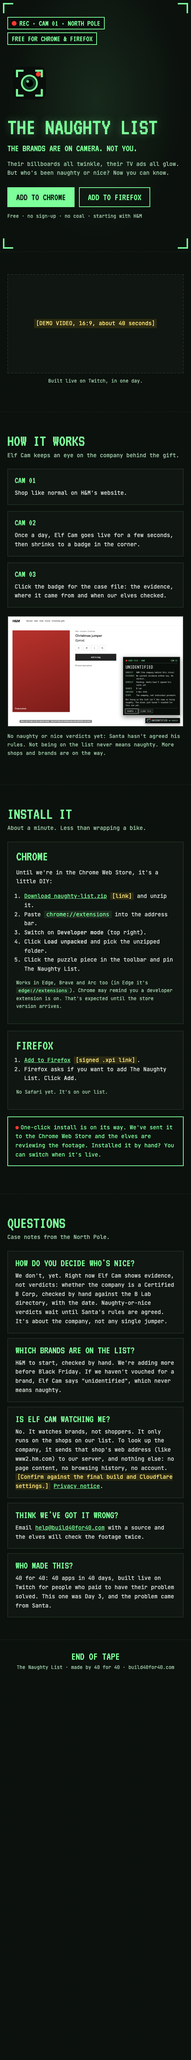
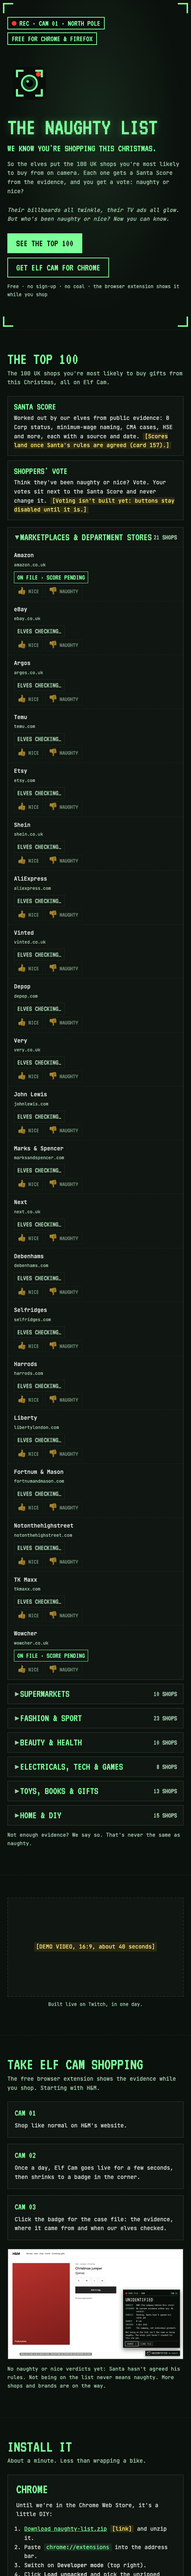
Download page: Santa's Top 100 story with Santa Score and shoppers' vote placeholders
Hero now opens on the Top 100 UK retailers (card 159). Scores show as pending
until card 157 agrees a method; vote buttons are disabled until voting is built.

diff --git a/publishing/launch/site/download.html b/publishing/launch/site/download.html
@@ -3,7 +3,7 @@
 <head>
 <meta charset="utf-8">
 <meta name="viewport" content="width=device-width, initial-scale=1">
-<title>The Naughty List: brands on Elf Cam</title>
+<title>The Naughty List: Santa's Top 100</title>
 <!-- DRAFT download page for build40for40.com/naughty-list. Standalone so it can be reviewed without touching the site repo.
      Elf Cam look (Lawrence, card 158 / PR #6): North Pole CCTV parody, black + phosphor green + REC red, VT323.
      Port into site/src/pages/naughty-list.astro once approved. Highlighted [brackets] = facts the build must confirm. -->
@@ -64,6 +64,25 @@ dt{font:28px/1 "VT323",monospace;text-transform:uppercase;color:var(--ph);margin
 dd{margin:0;max-width:70ch}
 footer{border-top:1px dashed var(--line);padding:30px 0 48px;text-align:center;color:var(--soft);font-size:13px}
 footer b{display:block;font:30px "VT323",monospace;text-transform:uppercase;color:var(--ph);font-weight:400;margin-bottom:4px}
+.legend{display:grid;grid-template-columns:1fr 1fr;gap:12px;margin-bottom:18px}
+.legend>div{background:var(--panel);border:2px solid var(--line);padding:14px 16px;display:grid;gap:6px}
+.legend b{font:26px/1 "VT323",monospace;text-transform:uppercase;color:var(--ph);font-weight:400}
+.cat{border:2px solid var(--line);margin-top:10px;background:var(--panel)}
+.cat summary{cursor:pointer;list-style:none;display:flex;justify-content:space-between;align-items:center;padding:12px 16px;font:28px/1 "VT323",monospace;text-transform:uppercase;color:var(--ph)}
+.cat summary::-webkit-details-marker{display:none}
+.cat summary::before{content:"▸ ";color:var(--soft)}.cat[open] summary::before{content:"▾ "}
+.cat summary span:first-child{flex:1}
+.cat .n{font-size:20px;color:var(--soft)}
+.rows{border-top:1px dashed var(--line)}
+.r{display:grid;grid-template-columns:1.3fr 1fr auto;gap:12px;align-items:center;padding:10px 16px;border-bottom:1px dashed var(--line)}
+.r:last-child{border-bottom:0}
+.who b{display:block;color:var(--neutral);font-weight:600}
+.who small{color:var(--soft);font-size:12px}
+.score{font:20px/1 "VT323",monospace;color:var(--soft);border:1px solid var(--line);padding:5px 8px;justify-self:start}
+.score.on{color:var(--ph);border-color:var(--ph)}
+.vote{display:flex;gap:6px}
+.vote button{font:18px/1 "VT323",monospace;text-transform:uppercase;background:transparent;color:var(--soft);border:1px solid var(--line);padding:6px 10px;cursor:not-allowed;opacity:.6}
+@media (max-width:720px){.legend{grid-template-columns:1fr}.r{grid-template-columns:1fr;gap:6px}}
 @media (max-width:720px){.grid,.install,.steps{grid-template-columns:1fr}.hero img{width:120px;height:120px;order:-1}.vf{inset:8px}.vf i{width:28px;height:28px;border-width:4px}}
 </style>
 </head>
@@ -76,13 +95,14 @@ footer b{display:block;font:30px "VT323",monospace;text-transform:uppercase;colo
     <div class="grid">
       <div>
         <h1>The Naughty List</h1>
-        <p class="tag">The brands are on camera. Not you.</p>
-        <p class="poem">Their billboards all twinkle, their TV ads all glow.<br>But who's been naughty or nice? Now you can know.</p>
+        <p class="tag">We know you're shopping this Christmas.</p>
+        <p class="poem">So the elves put the 100 UK shops you're most likely to buy from on camera. Each one gets a Santa Score from the evidence, and you get a vote: naughty or nice?</p>
+        <p class="poem" style="font-style:italic">Their billboards all twinkle, their TV ads all glow.<br>But who's been naughty or nice? Now you can know.</p>
         <div class="ctas">
-          <a class="btn" href="#install">Add to Chrome</a>
-          <a class="btn ghost" href="#install">Add to Firefox</a>
+          <a class="btn" href="#list">See the Top 100</a>
+          <a class="btn ghost" href="#install">Get Elf Cam for Chrome</a>
         </div>
-        <p class="small">Free · no sign-up · no coal · starting with H&amp;M</p>
+        <p class="small">Free · no sign-up · no coal · the browser extension shows it while you shop</p>
       </div>
       <img src="../src/icon-elfcam.svg" alt="">
     </div>
@@ -90,14 +110,25 @@ footer b{display:block;font:30px "VT323",monospace;text-transform:uppercase;colo
 </header>
 
 <main>
+<section class="w" id="list">
+  <h2>The Top 100</h2>
+  <p class="kicker">The 100 UK shops you're most likely to buy gifts from this Christmas, all on Elf Cam.</p>
+  <div class="legend">
+    <div><b>Santa Score</b><span>Worked out by our elves from public evidence: B Corp status, minimum-wage naming, CMA cases, HSE and more, each with a source and date. <span class="hole">[Scores land once Santa's rules are agreed (card 157).]</span></span></div>
+    <div><b>Shoppers' vote</b><span>Think they've been naughty or nice? Vote. Your votes sit next to the Santa Score and never change it. <span class="hole">[Voting isn't built yet: buttons stay disabled until it is.]</span></span></div>
+  </div>
+  <details class="cat" open><summary><span>Marketplaces &amp; department stores</span><span class="n">21 shops</span></summary><div class="rows"><div class="r"><div class="who"><b>Amazon</b><small>amazon.co.uk</small></div><div class="score on">ON FILE · SCORE PENDING</div><div class="vote" aria-label="Voting opens soon"><button disabled>👍 Nice</button><button disabled>👎 Naughty</button></div></div><div class="r"><div class="who"><b>eBay</b><small>ebay.co.uk</small></div><div class="score">ELVES CHECKING…</div><div class="vote" aria-label="Voting opens soon"><button disabled>👍 Nice</button><button disabled>👎 Naughty</button></div></div><div class="r"><div class="who"><b>Argos</b><small>argos.co.uk</small></div><div class="score">ELVES CHECKING…</div><div class="vote" aria-label="Voting opens soon"><button disabled>👍 Nice</button><button disabled>👎 Naughty</button></div></div><div class="r"><div class="who"><b>Temu</b><small>temu.com</small></div><div class="score">ELVES CHECKING…</div><div class="vote" aria-label="Voting opens soon"><button disabled>👍 Nice</button><button disabled>👎 Naughty</button></div></div><div class="r"><div class="who"><b>Etsy</b><small>etsy.com</small></div><div class="score">ELVES CHECKING…</div><div class="vote" aria-label="Voting opens soon"><button disabled>👍 Nice</button><button disabled>👎 Naughty</button></div></div><div class="r"><div class="who"><b>Shein</b><small>shein.co.uk</small></div><div class="score">ELVES CHECKING…</div><div class="vote" aria-label="Voting opens soon"><button disabled>👍 Nice</button><button disabled>👎 Naughty</button></div></div><div class="r"><div class="who"><b>AliExpress</b><small>aliexpress.com</small></div><div class="score">ELVES CHECKING…</div><div class="vote" aria-label="Voting opens soon"><button disabled>👍 Nice</button><button disabled>👎 Naughty</button></div></div><div class="r"><div class="who"><b>Vinted</b><small>vinted.co.uk</small></div><div class="score">ELVES CHECKING…</div><div class="vote" aria-label="Voting opens soon"><button disabled>👍 Nice</button><button disabled>👎 Naughty</button></div></div><div class="r"><div class="who"><b>Depop</b><small>depop.com</small></div><div class="score">ELVES CHECKING…</div><div class="vote" aria-label="Voting opens soon"><button disabled>👍 Nice</button><button disabled>👎 Naughty</button></div></div><div class="r"><div class="who"><b>Very</b><small>very.co.uk</small></div><div class="score">ELVES CHECKING…</div><div class="vote" aria-label="Voting opens soon"><button disabled>👍 Nice</button><button disabled>👎 Naughty</button></div></div><div class="r"><div class="who"><b>John Lewis</b><small>johnlewis.com</small></div><div class="score">ELVES CHECKING…</div><div class="vote" aria-label="Voting opens soon"><button disabled>👍 Nice</button><button disabled>👎 Naughty</button></div></div><div class="r"><div class="who"><b>Marks &amp; Spencer</b><small>marksandspencer.com</small></div><div class="score">ELVES CHECKING…</div><div class="vote" aria-label="Voting opens soon"><button disabled>👍 Nice</button><button disabled>👎 Naughty</button></div></div><div class="r"><div class="who"><b>Next</b><small>next.co.uk</small></div><div class="score">ELVES CHECKING…</div><div class="vote" aria-label="Voting opens soon"><button disabled>👍 Nice</button><button disabled>👎 Naughty</button></div></div><div class="r"><div class="who"><b>Debenhams</b><small>debenhams.com</small></div><div class="score">ELVES CHECKING…</div><div class="vote" aria-label="Voting opens soon"><button disabled>👍 Nice</button><button disabled>👎 Naughty</button></div></div><div class="r"><div class="who"><b>Selfridges</b><small>selfridges.com</small></div><div class="score">ELVES CHECKING…</div><div class="vote" aria-label="Voting opens soon"><button disabled>👍 Nice</button><button disabled>👎 Naughty</button></div></div><div class="r"><div class="who"><b>Harrods</b><small>harrods.com</small></div><div class="score">ELVES CHECKING…</div><div class="vote" aria-label="Voting opens soon"><button disabled>👍 Nice</button><button disabled>👎 Naughty</button></div></div><div class="r"><div class="who"><b>Liberty</b><small>libertylondon.com</small></div><div class="score">ELVES CHECKING…</div><div class="vote" aria-label="Voting opens soon"><button disabled>👍 Nice</button><button disabled>👎 Naughty</button></div></div><div class="r"><div class="who"><b>Fortnum &amp; Mason</b><small>fortnumandmason.com</small></div><div class="score">ELVES CHECKING…</div><div class="vote" aria-label="Voting opens soon"><button disabled>👍 Nice</button><button disabled>👎 Naughty</button></div></div><div class="r"><div class="who"><b>Notonthehighstreet</b><small>notonthehighstreet.com</small></div><div class="score">ELVES CHECKING…</div><div class="vote" aria-label="Voting opens soon"><button disabled>👍 Nice</button><button disabled>👎 Naughty</button></div></div><div class="r"><div class="who"><b>TK Maxx</b><small>tkmaxx.com</small></div><div class="score">ELVES CHECKING…</div><div class="vote" aria-label="Voting opens soon"><button disabled>👍 Nice</button><button disabled>👎 Naughty</button></div></div><div class="r"><div class="who"><b>Wowcher</b><small>wowcher.co.uk</small></div><div class="score on">ON FILE · SCORE PENDING</div><div class="vote" aria-label="Voting opens soon"><button disabled>👍 Nice</button><button disabled>👎 Naughty</button></div></div></div></details><details class="cat"><summary><span>Supermarkets</span><span class="n">10 shops</span></summary><div class="rows"><div class="r"><div class="who"><b>Tesco</b><small>tesco.com</small></div><div class="score">ELVES CHECKING…</div><div class="vote" aria-label="Voting opens soon"><button disabled>👍 Nice</button><button disabled>👎 Naughty</button></div></div><div class="r"><div class="who"><b>Sainsbury&#x27;s</b><small>sainsburys.co.uk</small></div><div class="score">ELVES CHECKING…</div><div class="vote" aria-label="Voting opens soon"><button disabled>👍 Nice</button><button disabled>👎 Naughty</button></div></div><div class="r"><div class="who"><b>Asda (incl. George)</b><small>asda.com</small></div><div class="score">ELVES CHECKING…</div><div class="vote" aria-label="Voting opens soon"><button disabled>👍 Nice</button><button disabled>👎 Naughty</button></div></div><div class="r"><div class="who"><b>Morrisons</b><small>morrisons.com</small></div><div class="score">ELVES CHECKING…</div><div class="vote" aria-label="Voting opens soon"><button disabled>👍 Nice</button><button disabled>👎 Naughty</button></div></div><div class="r"><div class="who"><b>Aldi</b><small>aldi.co.uk</small></div><div class="score">ELVES CHECKING…</div><div class="vote" aria-label="Voting opens soon"><button disabled>👍 Nice</button><button disabled>👎 Naughty</button></div></div><div class="r"><div class="who"><b>Lidl</b><small>lidl.co.uk</small></div><div class="score">ELVES CHECKING…</div><div class="vote" aria-label="Voting opens soon"><button disabled>👍 Nice</button><button disabled>👎 Naughty</button></div></div><div class="r"><div class="who"><b>Waitrose</b><small>waitrose.com</small></div><div class="score">ELVES CHECKING…</div><div class="vote" aria-label="Voting opens soon"><button disabled>👍 Nice</button><button disabled>👎 Naughty</button></div></div><div class="r"><div class="who"><b>Co-op</b><small>coop.co.uk</small></div><div class="score">ELVES CHECKING…</div><div class="vote" aria-label="Voting opens soon"><button disabled>👍 Nice</button><button disabled>👎 Naughty</button></div></div><div class="r"><div class="who"><b>Iceland</b><small>iceland.co.uk</small></div><div class="score">ELVES CHECKING…</div><div class="vote" aria-label="Voting opens soon"><button disabled>👍 Nice</button><button disabled>👎 Naughty</button></div></div><div class="r"><div class="who"><b>Ocado</b><small>ocado.com</small></div><div class="score">ELVES CHECKING…</div><div class="vote" aria-label="Voting opens soon"><button disabled>👍 Nice</button><button disabled>👎 Naughty</button></div></div></div></details><details class="cat"><summary><span>Fashion &amp; sport</span><span class="n">23 shops</span></summary><div class="rows"><div class="r"><div class="who"><b>Primark</b><small>primark.com</small></div><div class="score">ELVES CHECKING…</div><div class="vote" aria-label="Voting opens soon"><button disabled>👍 Nice</button><button disabled>👎 Naughty</button></div></div><div class="r"><div class="who"><b>H&amp;M</b><small>www2.hm.com</small></div><div class="score">ELVES CHECKING…</div><div class="vote" aria-label="Voting opens soon"><button disabled>👍 Nice</button><button disabled>👎 Naughty</button></div></div><div class="r"><div class="who"><b>Zara</b><small>zara.com</small></div><div class="score">ELVES CHECKING…</div><div class="vote" aria-label="Voting opens soon"><button disabled>👍 Nice</button><button disabled>👎 Naughty</button></div></div><div class="r"><div class="who"><b>Uniqlo</b><small>uniqlo.com</small></div><div class="score">ELVES CHECKING…</div><div class="vote" aria-label="Voting opens soon"><button disabled>👍 Nice</button><button disabled>👎 Naughty</button></div></div><div class="r"><div class="who"><b>ASOS</b><small>asos.com</small></div><div class="score on">ON FILE · SCORE PENDING</div><div class="vote" aria-label="Voting opens soon"><button disabled>👍 Nice</button><button disabled>👎 Naughty</button></div></div><div class="r"><div class="who"><b>Boohoo</b><small>boohoo.com</small></div><div class="score on">ON FILE · SCORE PENDING</div><div class="vote" aria-label="Voting opens soon"><button disabled>👍 Nice</button><button disabled>👎 Naughty</button></div></div><div class="r"><div class="who"><b>PrettyLittleThing</b><small>prettylittlething.com</small></div><div class="score">ELVES CHECKING…</div><div class="vote" aria-label="Voting opens soon"><button disabled>👍 Nice</button><button disabled>👎 Naughty</button></div></div><div class="r"><div class="who"><b>River Island</b><small>riverisland.com</small></div><div class="score">ELVES CHECKING…</div><div class="vote" aria-label="Voting opens soon"><button disabled>👍 Nice</button><button disabled>👎 Naughty</button></div></div><div class="r"><div class="who"><b>New Look</b><small>newlook.com</small></div><div class="score">ELVES CHECKING…</div><div class="vote" aria-label="Voting opens soon"><button disabled>👍 Nice</button><button disabled>👎 Naughty</button></div></div><div class="r"><div class="who"><b>Mango</b><small>mango.com</small></div><div class="score">ELVES CHECKING…</div><div class="vote" aria-label="Voting opens soon"><button disabled>👍 Nice</button><button disabled>👎 Naughty</button></div></div><div class="r"><div class="who"><b>JD Sports</b><small>jdsports.co.uk</small></div><div class="score">ELVES CHECKING…</div><div class="vote" aria-label="Voting opens soon"><button disabled>👍 Nice</button><button disabled>👎 Naughty</button></div></div><div class="r"><div class="who"><b>Sports Direct</b><small>sportsdirect.com</small></div><div class="score">ELVES CHECKING…</div><div class="vote" aria-label="Voting opens soon"><button disabled>👍 Nice</button><button disabled>👎 Naughty</button></div></div><div class="r"><div class="who"><b>Nike</b><small>nike.com</small></div><div class="score">ELVES CHECKING…</div><div class="vote" aria-label="Voting opens soon"><button disabled>👍 Nice</button><button disabled>👎 Naughty</button></div></div><div class="r"><div class="who"><b>Adidas</b><small>adidas.co.uk</small></div><div class="score">ELVES CHECKING…</div><div class="vote" aria-label="Voting opens soon"><button disabled>👍 Nice</button><button disabled>👎 Naughty</button></div></div><div class="r"><div class="who"><b>Matalan</b><small>matalan.co.uk</small></div><div class="score">ELVES CHECKING…</div><div class="vote" aria-label="Voting opens soon"><button disabled>👍 Nice</button><button disabled>👎 Naughty</button></div></div><div class="r"><div class="who"><b>FatFace</b><small>fatface.com</small></div><div class="score">ELVES CHECKING…</div><div class="vote" aria-label="Voting opens soon"><button disabled>👍 Nice</button><button disabled>👎 Naughty</button></div></div><div class="r"><div class="who"><b>White Stuff</b><small>whitestuff.com</small></div><div class="score">ELVES CHECKING…</div><div class="vote" aria-label="Voting opens soon"><button disabled>👍 Nice</button><button disabled>👎 Naughty</button></div></div><div class="r"><div class="who"><b>Joules</b><small>joules.com</small></div><div class="score">ELVES CHECKING…</div><div class="vote" aria-label="Voting opens soon"><button disabled>👍 Nice</button><button disabled>👎 Naughty</button></div></div><div class="r"><div class="who"><b>Schuh</b><small>schuh.co.uk</small></div><div class="score">ELVES CHECKING…</div><div class="vote" aria-label="Voting opens soon"><button disabled>👍 Nice</button><button disabled>👎 Naughty</button></div></div><div class="r"><div class="who"><b>Clarks</b><small>clarks.com</small></div><div class="score">ELVES CHECKING…</div><div class="vote" aria-label="Voting opens soon"><button disabled>👍 Nice</button><button disabled>👎 Naughty</button></div></div><div class="r"><div class="who"><b>Flannels</b><small>flannels.com</small></div><div class="score">ELVES CHECKING…</div><div class="vote" aria-label="Voting opens soon"><button disabled>👍 Nice</button><button disabled>👎 Naughty</button></div></div><div class="r"><div class="who"><b>Zalando</b><small>zalando.co.uk</small></div><div class="score">ELVES CHECKING…</div><div class="vote" aria-label="Voting opens soon"><button disabled>👍 Nice</button><button disabled>👎 Naughty</button></div></div><div class="r"><div class="who"><b>Patagonia</b><small>eu.patagonia.com</small></div><div class="score on">ON FILE · SCORE PENDING</div><div class="vote" aria-label="Voting opens soon"><button disabled>👍 Nice</button><button disabled>👎 Naughty</button></div></div></div></details><details class="cat"><summary><span>Beauty &amp; health</span><span class="n">10 shops</span></summary><div class="rows"><div class="r"><div class="who"><b>Boots</b><small>boots.com</small></div><div class="score">ELVES CHECKING…</div><div class="vote" aria-label="Voting opens soon"><button disabled>👍 Nice</button><button disabled>👎 Naughty</button></div></div><div class="r"><div class="who"><b>Superdrug</b><small>superdrug.com</small></div><div class="score">ELVES CHECKING…</div><div class="vote" aria-label="Voting opens soon"><button disabled>👍 Nice</button><button disabled>👎 Naughty</button></div></div><div class="r"><div class="who"><b>Lookfantastic</b><small>lookfantastic.com</small></div><div class="score">ELVES CHECKING…</div><div class="vote" aria-label="Voting opens soon"><button disabled>👍 Nice</button><button disabled>👎 Naughty</button></div></div><div class="r"><div class="who"><b>Cult Beauty</b><small>cultbeauty.co.uk</small></div><div class="score">ELVES CHECKING…</div><div class="vote" aria-label="Voting opens soon"><button disabled>👍 Nice</button><button disabled>👎 Naughty</button></div></div><div class="r"><div class="who"><b>Space NK</b><small>spacenk.com</small></div><div class="score">ELVES CHECKING…</div><div class="vote" aria-label="Voting opens soon"><button disabled>👍 Nice</button><button disabled>👎 Naughty</button></div></div><div class="r"><div class="who"><b>The Body Shop</b><small>thebodyshop.com</small></div><div class="score">ELVES CHECKING…</div><div class="vote" aria-label="Voting opens soon"><button disabled>👍 Nice</button><button disabled>👎 Naughty</button></div></div><div class="r"><div class="who"><b>Lush</b><small>lush.com</small></div><div class="score">ELVES CHECKING…</div><div class="vote" aria-label="Voting opens soon"><button disabled>👍 Nice</button><button disabled>👎 Naughty</button></div></div><div class="r"><div class="who"><b>Holland &amp; Barrett</b><small>hollandandbarrett.com</small></div><div class="score">ELVES CHECKING…</div><div class="vote" aria-label="Voting opens soon"><button disabled>👍 Nice</button><button disabled>👎 Naughty</button></div></div><div class="r"><div class="who"><b>Sephora</b><small>sephora.co.uk</small></div><div class="score">ELVES CHECKING…</div><div class="vote" aria-label="Voting opens soon"><button disabled>👍 Nice</button><button disabled>👎 Naughty</button></div></div><div class="r"><div class="who"><b>Charlotte Tilbury</b><small>charlottetilbury.com</small></div><div class="score">ELVES CHECKING…</div><div class="vote" aria-label="Voting opens soon"><button disabled>👍 Nice</button><button disabled>👎 Naughty</button></div></div></div></details><details class="cat"><summary><span>Electricals, tech &amp; games</span><span class="n">8 shops</span></summary><div class="rows"><div class="r"><div class="who"><b>Currys</b><small>currys.co.uk</small></div><div class="score">ELVES CHECKING…</div><div class="vote" aria-label="Voting opens soon"><button disabled>👍 Nice</button><button disabled>👎 Naughty</button></div></div><div class="r"><div class="who"><b>AO</b><small>ao.com</small></div><div class="score">ELVES CHECKING…</div><div class="vote" aria-label="Voting opens soon"><button disabled>👍 Nice</button><button disabled>👎 Naughty</button></div></div><div class="r"><div class="who"><b>Apple</b><small>apple.com/uk</small></div><div class="score on">ON FILE · SCORE PENDING</div><div class="vote" aria-label="Voting opens soon"><button disabled>👍 Nice</button><button disabled>👎 Naughty</button></div></div><div class="r"><div class="who"><b>Samsung</b><small>samsung.com/uk</small></div><div class="score">ELVES CHECKING…</div><div class="vote" aria-label="Voting opens soon"><button disabled>👍 Nice</button><button disabled>👎 Naughty</button></div></div><div class="r"><div class="who"><b>GAME</b><small>game.co.uk</small></div><div class="score">ELVES CHECKING…</div><div class="vote" aria-label="Voting opens soon"><button disabled>👍 Nice</button><button disabled>👎 Naughty</button></div></div><div class="r"><div class="who"><b>PlayStation Store</b><small>store.playstation.com</small></div><div class="score on">ON FILE · SCORE PENDING</div><div class="vote" aria-label="Voting opens soon"><button disabled>👍 Nice</button><button disabled>👎 Naughty</button></div></div><div class="r"><div class="who"><b>Nintendo</b><small>nintendo.com/en-gb</small></div><div class="score on">ON FILE · SCORE PENDING</div><div class="vote" aria-label="Voting opens soon"><button disabled>👍 Nice</button><button disabled>👎 Naughty</button></div></div><div class="r"><div class="who"><b>Xbox</b><small>xbox.com</small></div><div class="score on">ON FILE · SCORE PENDING</div><div class="vote" aria-label="Voting opens soon"><button disabled>👍 Nice</button><button disabled>👎 Naughty</button></div></div></div></details><details class="cat"><summary><span>Toys, books &amp; gifts</span><span class="n">13 shops</span></summary><div class="rows"><div class="r"><div class="who"><b>Smyths Toys</b><small>smythstoys.com</small></div><div class="score">ELVES CHECKING…</div><div class="vote" aria-label="Voting opens soon"><button disabled>👍 Nice</button><button disabled>👎 Naughty</button></div></div><div class="r"><div class="who"><b>The Entertainer</b><small>thetoyshop.com</small></div><div class="score">ELVES CHECKING…</div><div class="vote" aria-label="Voting opens soon"><button disabled>👍 Nice</button><button disabled>👎 Naughty</button></div></div><div class="r"><div class="who"><b>LEGO</b><small>lego.com</small></div><div class="score">ELVES CHECKING…</div><div class="vote" aria-label="Voting opens soon"><button disabled>👍 Nice</button><button disabled>👎 Naughty</button></div></div><div class="r"><div class="who"><b>Waterstones</b><small>waterstones.com</small></div><div class="score">ELVES CHECKING…</div><div class="vote" aria-label="Voting opens soon"><button disabled>👍 Nice</button><button disabled>👎 Naughty</button></div></div><div class="r"><div class="who"><b>WHSmith</b><small>whsmith.co.uk</small></div><div class="score">ELVES CHECKING…</div><div class="vote" aria-label="Voting opens soon"><button disabled>👍 Nice</button><button disabled>👎 Naughty</button></div></div><div class="r"><div class="who"><b>The Works</b><small>theworks.co.uk</small></div><div class="score">ELVES CHECKING…</div><div class="vote" aria-label="Voting opens soon"><button disabled>👍 Nice</button><button disabled>👎 Naughty</button></div></div><div class="r"><div class="who"><b>Hobbycraft</b><small>hobbycraft.co.uk</small></div><div class="score">ELVES CHECKING…</div><div class="vote" aria-label="Voting opens soon"><button disabled>👍 Nice</button><button disabled>👎 Naughty</button></div></div><div class="r"><div class="who"><b>Moonpig</b><small>moonpig.com</small></div><div class="score">ELVES CHECKING…</div><div class="vote" aria-label="Voting opens soon"><button disabled>👍 Nice</button><button disabled>👎 Naughty</button></div></div><div class="r"><div class="who"><b>Card Factory</b><small>cardfactory.co.uk</small></div><div class="score">ELVES CHECKING…</div><div class="vote" aria-label="Voting opens soon"><button disabled>👍 Nice</button><button disabled>👎 Naughty</button></div></div><div class="r"><div class="who"><b>Hotel Chocolat</b><small>hotelchocolat.com</small></div><div class="score">ELVES CHECKING…</div><div class="vote" aria-label="Voting opens soon"><button disabled>👍 Nice</button><button disabled>👎 Naughty</button></div></div><div class="r"><div class="who"><b>Tony&#x27;s Chocolonely</b><small>tonyschocolonely.com</small></div><div class="score on">ON FILE · SCORE PENDING</div><div class="vote" aria-label="Voting opens soon"><button disabled>👍 Nice</button><button disabled>👎 Naughty</button></div></div><div class="r"><div class="who"><b>Pandora</b><small>uk.pandora.net</small></div><div class="score">ELVES CHECKING…</div><div class="vote" aria-label="Voting opens soon"><button disabled>👍 Nice</button><button disabled>👎 Naughty</button></div></div><div class="r"><div class="who"><b>Pets at Home</b><small>petsathome.com</small></div><div class="score">ELVES CHECKING…</div><div class="vote" aria-label="Voting opens soon"><button disabled>👍 Nice</button><button disabled>👎 Naughty</button></div></div></div></details><details class="cat"><summary><span>Home &amp; DIY</span><span class="n">15 shops</span></summary><div class="rows"><div class="r"><div class="who"><b>IKEA</b><small>ikea.com/gb</small></div><div class="score">ELVES CHECKING…</div><div class="vote" aria-label="Voting opens soon"><button disabled>👍 Nice</button><button disabled>👎 Naughty</button></div></div><div class="r"><div class="who"><b>B&amp;Q</b><small>diy.com</small></div><div class="score on">ON FILE · SCORE PENDING</div><div class="vote" aria-label="Voting opens soon"><button disabled>👍 Nice</button><button disabled>👎 Naughty</button></div></div><div class="r"><div class="who"><b>Wickes</b><small>wickes.co.uk</small></div><div class="score">ELVES CHECKING…</div><div class="vote" aria-label="Voting opens soon"><button disabled>👍 Nice</button><button disabled>👎 Naughty</button></div></div><div class="r"><div class="who"><b>Screwfix</b><small>screwfix.com</small></div><div class="score">ELVES CHECKING…</div><div class="vote" aria-label="Voting opens soon"><button disabled>👍 Nice</button><button disabled>👎 Naughty</button></div></div><div class="r"><div class="who"><b>Dunelm</b><small>dunelm.com</small></div><div class="score">ELVES CHECKING…</div><div class="vote" aria-label="Voting opens soon"><button disabled>👍 Nice</button><button disabled>👎 Naughty</button></div></div><div class="r"><div class="who"><b>Wayfair</b><small>wayfair.co.uk</small></div><div class="score">ELVES CHECKING…</div><div class="vote" aria-label="Voting opens soon"><button disabled>👍 Nice</button><button disabled>👎 Naughty</button></div></div><div class="r"><div class="who"><b>The Range</b><small>therange.co.uk</small></div><div class="score">ELVES CHECKING…</div><div class="vote" aria-label="Voting opens soon"><button disabled>👍 Nice</button><button disabled>👎 Naughty</button></div></div><div class="r"><div class="who"><b>B&amp;M</b><small>bmstores.co.uk</small></div><div class="score">ELVES CHECKING…</div><div class="vote" aria-label="Voting opens soon"><button disabled>👍 Nice</button><button disabled>👎 Naughty</button></div></div><div class="r"><div class="who"><b>Home Bargains</b><small>homebargains.co.uk</small></div><div class="score">ELVES CHECKING…</div><div class="vote" aria-label="Voting opens soon"><button disabled>👍 Nice</button><button disabled>👎 Naughty</button></div></div><div class="r"><div class="who"><b>Homebase</b><small>homebase.co.uk</small></div><div class="score">ELVES CHECKING…</div><div class="vote" aria-label="Voting opens soon"><button disabled>👍 Nice</button><button disabled>👎 Naughty</button></div></div><div class="r"><div class="who"><b>Lakeland</b><small>lakeland.co.uk</small></div><div class="score">ELVES CHECKING…</div><div class="vote" aria-label="Voting opens soon"><button disabled>👍 Nice</button><button disabled>👎 Naughty</button></div></div><div class="r"><div class="who"><b>Simba</b><small>simbasleep.com</small></div><div class="score on">ON FILE · SCORE PENDING</div><div class="vote" aria-label="Voting opens soon"><button disabled>👍 Nice</button><button disabled>👎 Naughty</button></div></div><div class="r"><div class="who"><b>Halfords</b><small>halfords.com</small></div><div class="score">ELVES CHECKING…</div><div class="vote" aria-label="Voting opens soon"><button disabled>👍 Nice</button><button disabled>👎 Naughty</button></div></div><div class="r"><div class="who"><b>Poundland</b><small>poundland.co.uk</small></div><div class="score">ELVES CHECKING…</div><div class="vote" aria-label="Voting opens soon"><button disabled>👍 Nice</button><button disabled>👎 Naughty</button></div></div><div class="r"><div class="who"><b>Costco</b><small>costco.co.uk</small></div><div class="score">ELVES CHECKING…</div><div class="vote" aria-label="Voting opens soon"><button disabled>👍 Nice</button><button disabled>👎 Naughty</button></div></div></div></details>
+  <p class="note">Not enough evidence? We say so. That's never the same as naughty.</p>
+</section>
+
 <section class="w">
   <div class="video"><span class="hole">[DEMO VIDEO, 16:9, about 40 seconds]</span></div>
   <p class="cap">Built live on Twitch, in one day.</p>
 </section>
 
 <section class="w">
-  <h2>How it works</h2>
-  <p class="kicker">Elf Cam keeps an eye on the company behind the gift.</p>
+  <h2>Take Elf Cam shopping</h2>
+  <p class="kicker">The free browser extension shows the evidence while you shop. Starting with H&amp;M.</p>
   <ol class="steps">
     <li>Shop like normal on H&amp;M's website.</li>
     <li>Once a day, Elf Cam goes live for a few seconds, then shrinks to a badge in the corner.</li>
@@ -140,7 +171,8 @@ footer b{display:block;font:30px "VT323",monospace;text-transform:uppercase;colo
   <p class="kicker">Case notes from the North Pole.</p>
   <dl>
     <div><dt>How do you decide who's nice?</dt><dd>We don't, yet. Right now Elf Cam shows evidence, not verdicts: whether the company is a Certified B Corp, checked by hand against the B Lab directory, with the date. Naughty-or-nice verdicts wait until Santa's rules are agreed. It's about the company, not any single jumper.</dd></div>
-    <div><dt>Which brands are on the list?</dt><dd>H&amp;M to start, checked by hand. We're adding more before Black Friday. If we haven't vouched for a brand, Elf Cam says "unidentified", which never means naughty.</dd></div>
+    <div><dt>Which shops are on the list?</dt><dd>The 100 UK retailers you're most likely to shop at this Christmas, from supermarkets to marketplaces. Every Santa Score is built from public evidence with a source and date. If we haven't got enough evidence, we say so, which never means naughty.</dd></div>
+    <div><dt>Does my vote change the Santa Score?</dt><dd>No. The Santa Score comes from evidence. Shoppers' votes are shown next to it so you can see what other people think. <span class="hole">[Voting launches when it's built.]</span></dd></div>
     <div><dt>Is Elf Cam watching me?</dt><dd>No. It watches brands, not shoppers. It only runs on the shops on our list. To look up the company, it sends that shop's web address (like www2.hm.com) to our server, and nothing else: no page content, no browsing history, no account. <span class="hole">[Confirm against the final build and Cloudflare settings.]</span> <a href="https://build40for40.com/privacy">Privacy notice</a>.</dd></div>
     <div><dt>Think we've got it wrong?</dt><dd>Email <a href="mailto:help@build40for40.com">help@build40for40.com</a> with a source and the elves will check the footage twice.</dd></div>
     <div><dt>Who made this?</dt><dd>40 for 40: 40 apps in 40 days, built live on Twitch for people who paid to have their problem solved. This one was Day 3, and the problem came from Santa.</dd></div>

diff --git a/publishing/launch/site/top100.md b/publishing/launch/site/top100.md
@@ -1,0 +1,135 @@
+
+**Marketplaces & department stores**
+
+| # | Retailer | Main UK site | In Ben's backend today |
+| --- | --- | --- | --- |
+| 1 | Amazon | amazon.co.uk | ✓ Amazon |
+| 2 | eBay | ebay.co.uk | ~ eBay Inc. (US) |
+| 3 | Argos | argos.co.uk | — |
+| 4 | Temu | temu.com | — |
+| 5 | Etsy | etsy.com | — |
+| 6 | Shein | shein.co.uk | — |
+| 7 | AliExpress | aliexpress.com | — |
+| 8 | Vinted | vinted.co.uk | — |
+| 9 | Depop | depop.com | — |
+| 10 | Very | very.co.uk | — |
+| 11 | John Lewis | johnlewis.com | — |
+| 12 | Marks & Spencer | marksandspencer.com | — |
+| 13 | Next | next.co.uk | — |
+| 14 | Debenhams | debenhams.com | — |
+| 15 | Selfridges | selfridges.com | — |
+| 16 | Harrods | harrods.com | — |
+| 17 | Liberty | libertylondon.com | — |
+| 18 | Fortnum & Mason | fortnumandmason.com | — |
+| 19 | Notonthehighstreet | notonthehighstreet.com | — |
+| 20 | TK Maxx | tkmaxx.com | — |
+| 21 | Wowcher | wowcher.co.uk | ✓ Wowcher |
+
+**Supermarkets**
+
+| # | Retailer | Main UK site | In Ben's backend today |
+| --- | --- | --- | --- |
+| 22 | Tesco | tesco.com | — |
+| 23 | Sainsbury's | sainsburys.co.uk | — |
+| 24 | Asda (incl. George) | asda.com | ~ George at Asda |
+| 25 | Morrisons | morrisons.com | — |
+| 26 | Aldi | aldi.co.uk | — |
+| 27 | Lidl | lidl.co.uk | — |
+| 28 | Waitrose | waitrose.com | — |
+| 29 | Co-op | coop.co.uk | — |
+| 30 | Iceland | iceland.co.uk | — |
+| 31 | Ocado | ocado.com | — |
+
+**Fashion & sport**
+
+| # | Retailer | Main UK site | In Ben's backend today |
+| --- | --- | --- | --- |
+| 32 | Primark | primark.com | — |
+| 33 | H&M | www2.hm.com | ~ hm-registry branch |
+| 34 | Zara | zara.com | — |
+| 35 | Uniqlo | uniqlo.com | — |
+| 36 | ASOS | asos.com | ✓ ASOS |
+| 37 | Boohoo | boohoo.com | ✓ Boohoo |
+| 38 | PrettyLittleThing | prettylittlething.com | — |
+| 39 | River Island | riverisland.com | — |
+| 40 | New Look | newlook.com | — |
+| 41 | Mango | mango.com | — |
+| 42 | JD Sports | jdsports.co.uk | — |
+| 43 | Sports Direct | sportsdirect.com | — |
+| 44 | Nike | nike.com | — |
+| 45 | Adidas | adidas.co.uk | — |
+| 46 | Matalan | matalan.co.uk | — |
+| 47 | FatFace | fatface.com | — |
+| 48 | White Stuff | whitestuff.com | — |
+| 49 | Joules | joules.com | — |
+| 50 | Schuh | schuh.co.uk | — |
+| 51 | Clarks | clarks.com | — |
+| 52 | Flannels | flannels.com | — |
+| 53 | Zalando | zalando.co.uk | — |
+| 54 | Patagonia | eu.patagonia.com | ✓ Patagonia |
+
+**Beauty & health**
+
+| # | Retailer | Main UK site | In Ben's backend today |
+| --- | --- | --- | --- |
+| 55 | Boots | boots.com | — |
+| 56 | Superdrug | superdrug.com | — |
+| 57 | Lookfantastic | lookfantastic.com | — |
+| 58 | Cult Beauty | cultbeauty.co.uk | — |
+| 59 | Space NK | spacenk.com | — |
+| 60 | The Body Shop | thebodyshop.com | — |
+| 61 | Lush | lush.com | — |
+| 62 | Holland & Barrett | hollandandbarrett.com | — |
+| 63 | Sephora | sephora.co.uk | — |
+| 64 | Charlotte Tilbury | charlottetilbury.com | — |
+
+**Electricals, tech & games**
+
+| # | Retailer | Main UK site | In Ben's backend today |
+| --- | --- | --- | --- |
+| 65 | Currys | currys.co.uk | — |
+| 66 | AO | ao.com | — |
+| 67 | Apple | apple.com/uk | ✓ Apple |
+| 68 | Samsung | samsung.com/uk | — |
+| 69 | GAME | game.co.uk | — |
+| 70 | PlayStation Store | store.playstation.com | ✓ Sony PlayStation |
+| 71 | Nintendo | nintendo.com/en-gb | ✓ Nintendo |
+| 72 | Xbox | xbox.com | ✓ Microsoft Xbox |
+
+**Toys, books & gifts**
+
+| # | Retailer | Main UK site | In Ben's backend today |
+| --- | --- | --- | --- |
+| 73 | Smyths Toys | smythstoys.com | — |
+| 74 | The Entertainer | thetoyshop.com | — |
+| 75 | LEGO | lego.com | — |
+| 76 | Waterstones | waterstones.com | — |
+| 77 | WHSmith | whsmith.co.uk | — |
+| 78 | The Works | theworks.co.uk | — |
+| 79 | Hobbycraft | hobbycraft.co.uk | — |
+| 80 | Moonpig | moonpig.com | — |
+| 81 | Card Factory | cardfactory.co.uk | — |
+| 82 | Hotel Chocolat | hotelchocolat.com | — |
+| 83 | Tony's Chocolonely | tonyschocolonely.com | ✓ Tony's Chocolonely |
+| 84 | Pandora | uk.pandora.net | — |
+| 85 | Pets at Home | petsathome.com | — |
+
+**Home & DIY**
+
+| # | Retailer | Main UK site | In Ben's backend today |
+| --- | --- | --- | --- |
+| 86 | IKEA | ikea.com/gb | — |
+| 87 | B&Q | diy.com | ✓ B&Q |
+| 88 | Wickes | wickes.co.uk | — |
+| 89 | Screwfix | screwfix.com | — |
+| 90 | Dunelm | dunelm.com | — |
+| 91 | Wayfair | wayfair.co.uk | — |
+| 92 | The Range | therange.co.uk | — |
+| 93 | B&M | bmstores.co.uk | — |
+| 94 | Home Bargains | homebargains.co.uk | — |
+| 95 | Homebase | homebase.co.uk | — |
+| 96 | Lakeland | lakeland.co.uk | — |
+| 97 | Simba | simbasleep.com | ✓ Simba Sleep |
+| 98 | Halfords | halfords.com | — |
+| 99 | Poundland | poundland.co.uk | — |
+| 100 | Costco | costco.co.uk | — |
